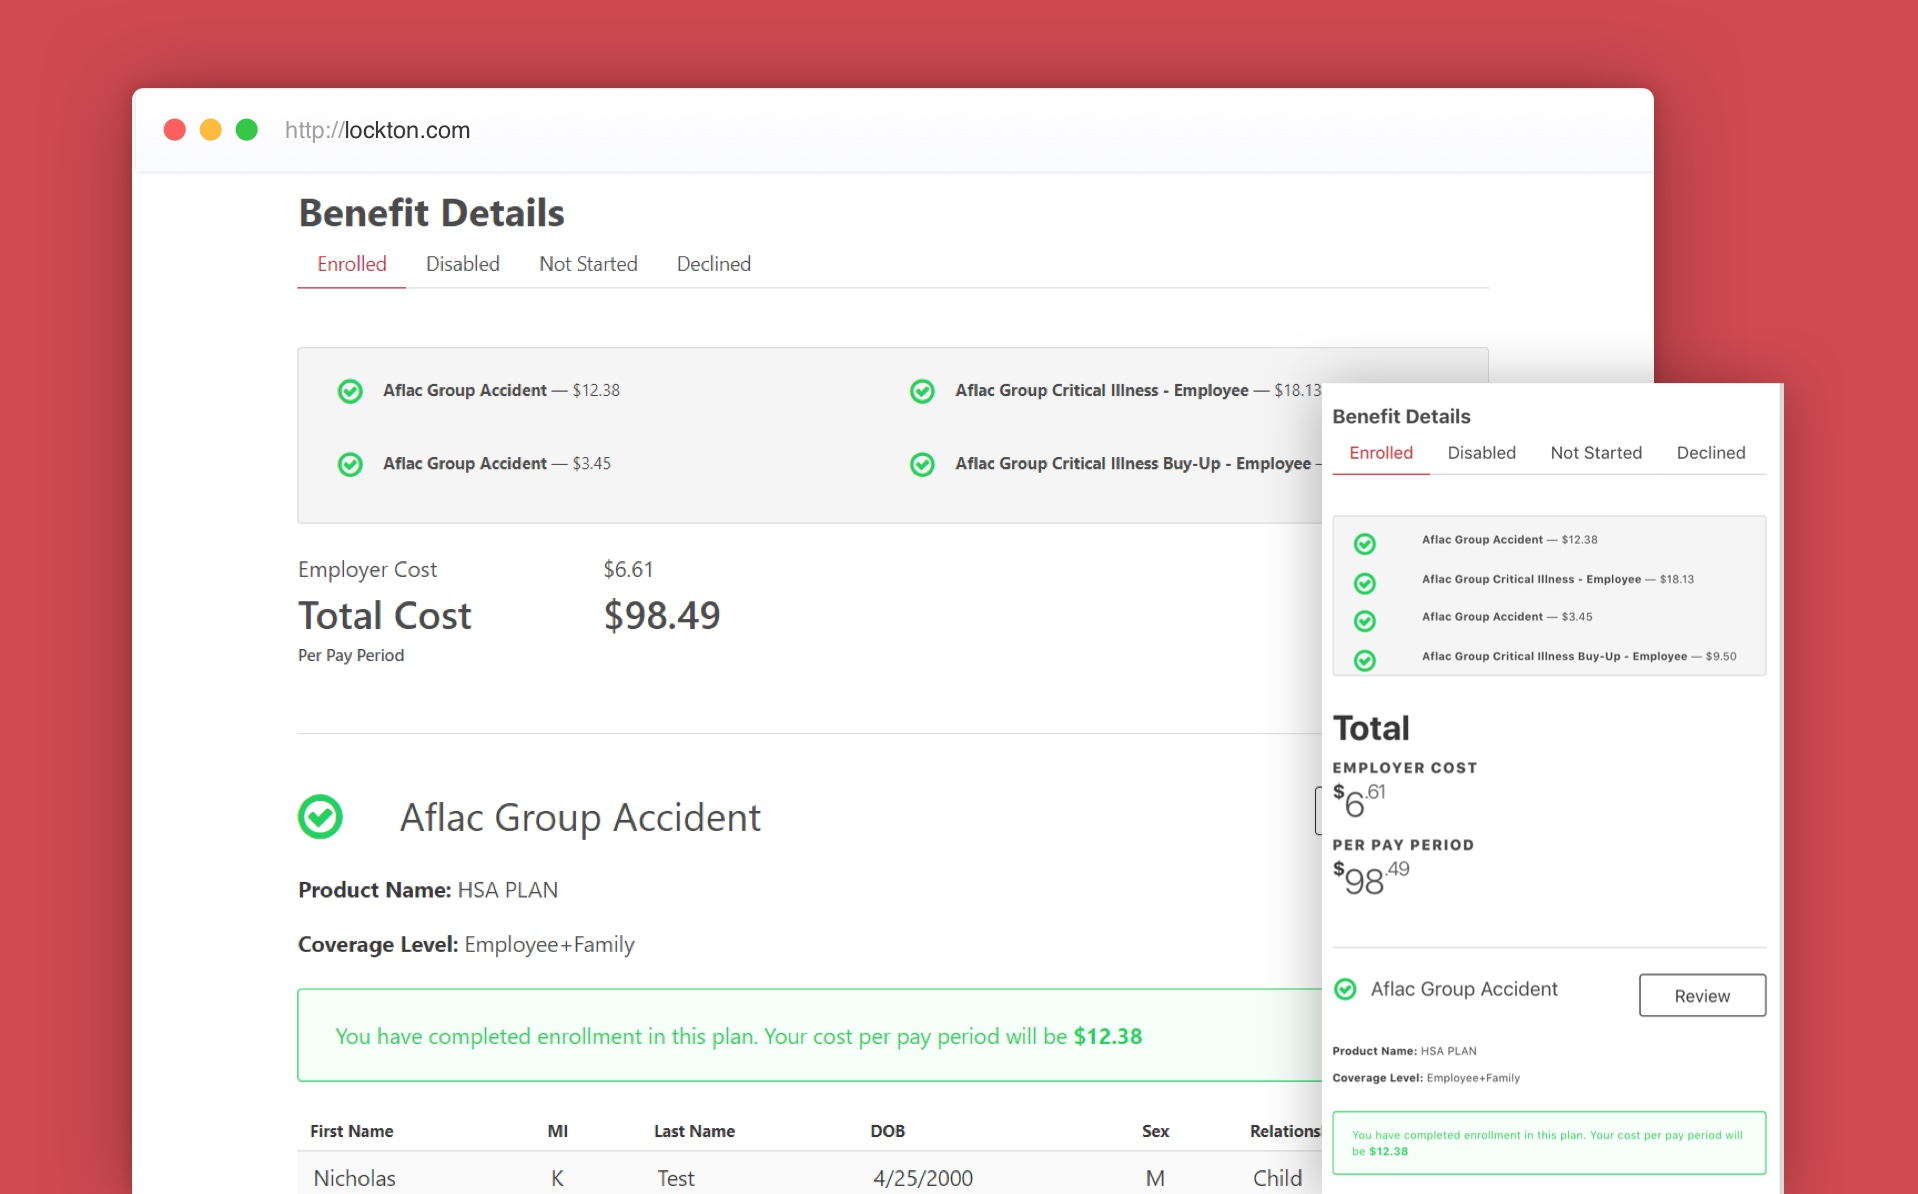
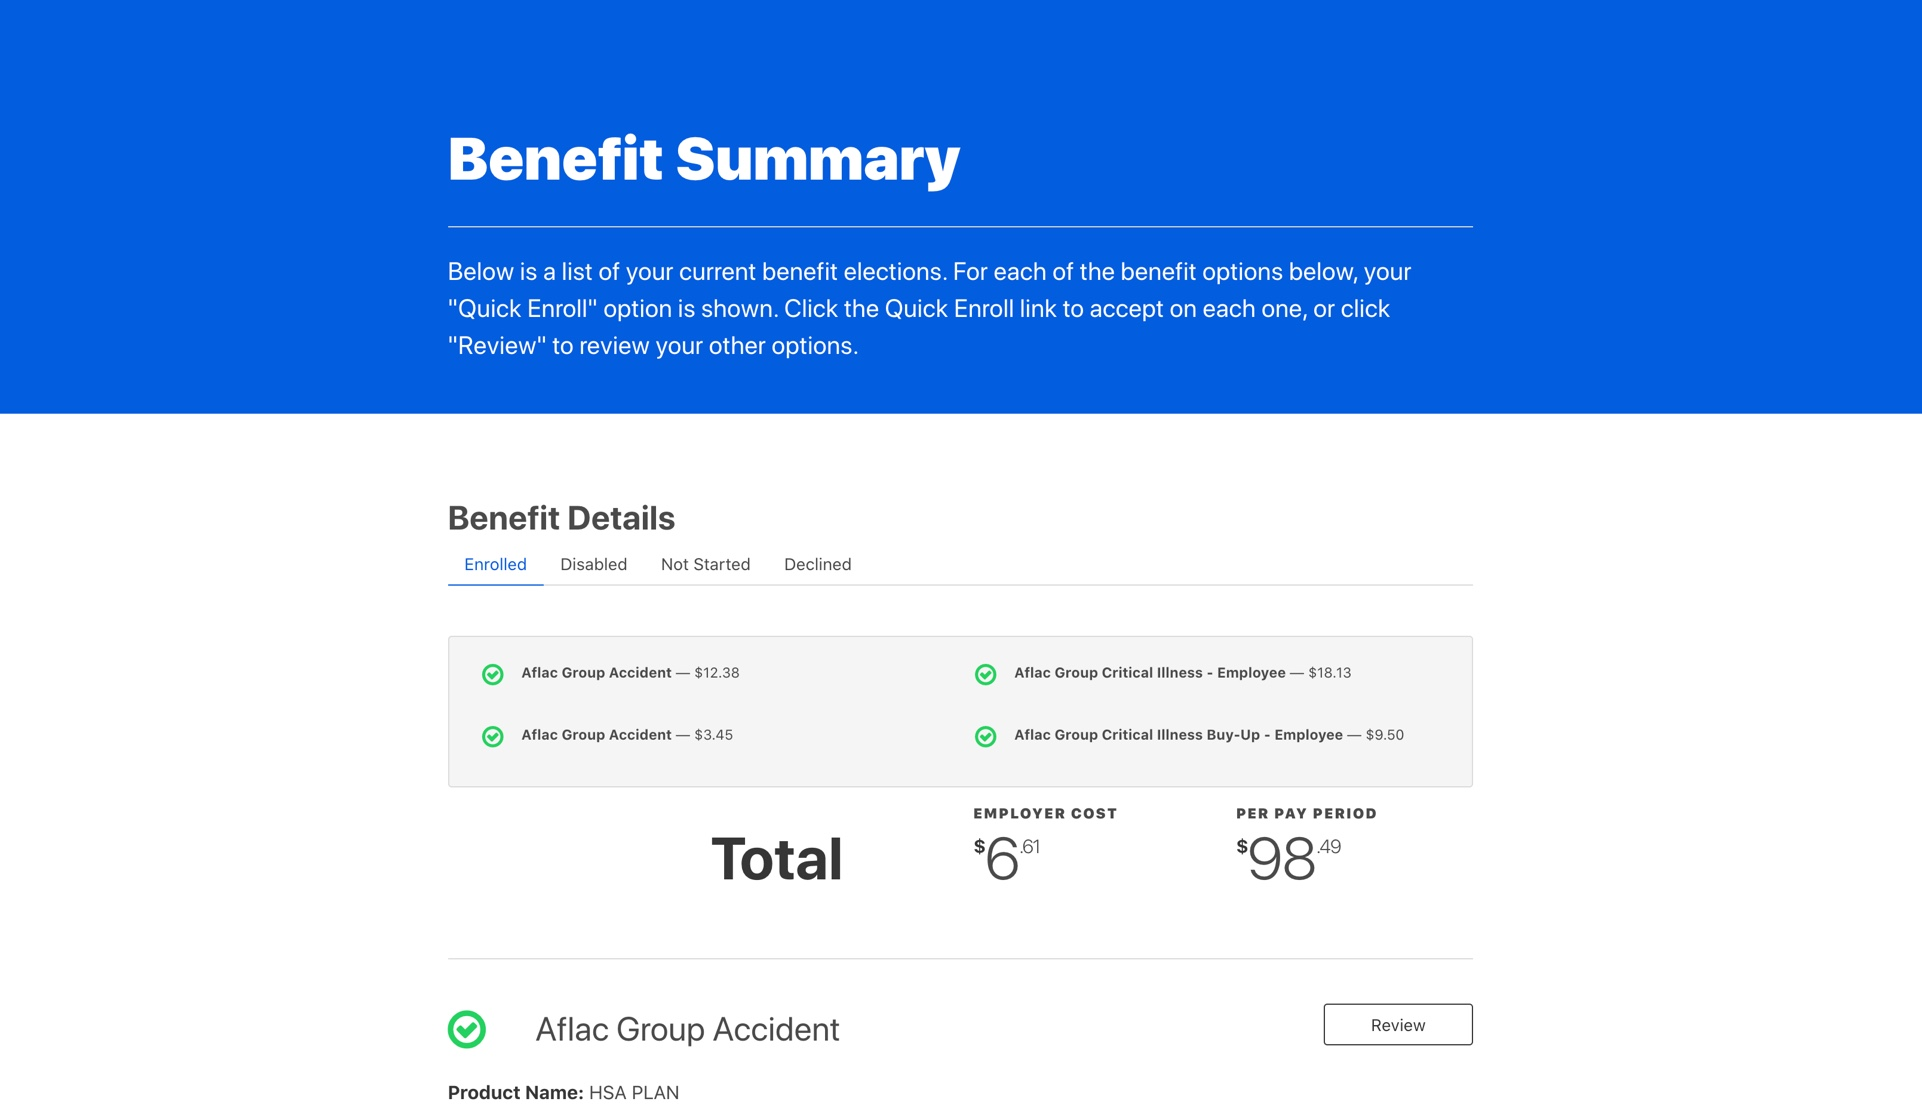
updates lockton brand from red to blue

diff --git a/lockton.html b/lockton.html
@@ -44,7 +44,7 @@
             style="
               width: 45px;
               height: 6px;
-              background-color: #BE2A32;
+              background-color: #005EDF;
               display: block;
             "
           ></span>
@@ -128,22 +128,7 @@
       </div>
       <div class="row">
         <div class="col mb-4">
-          <img class="w-100 case-study-img-border" src="img/lockton-updated-design-1.jpg" />
-          <div class="case-study-img-note">
-              <p class="case-study-text m-0 text-center">
-                  <small><em>The updated welcome page.</em></small>            
-              </p>
-          </div>    
-        </div>
-      </div>
-      <div class="row">
-        <div class="col mb-4">
-          <img class="w-100 case-study-img" src="img/lockton-updated-design-2.jpg" />
-          <div class="case-study-img-note">
-              <p class="case-study-text m-0 text-center">
-                  <small><em>A closer look at some of the UI</em></small>            
-              </p>
-          </div>  
+          <img class="w-100 case-study-img-border" src="img/lockton-benefit-details.jpg" />
         </div>
       </div>    
       <div class="row">
@@ -169,25 +154,24 @@
       </div>
       <div class="row">
         <div class="col mb-4">
-          <img class="w-100 mb-4" src="img/lockton-dependents.jpg" />
-        </div>
-      </div>
-      <div class="row">
-        <div class="col mb-4">
-          <img class="w-100 case-study-img" src="img/lockton-benefit-details.jpg" />
+          <img class="w-100 case-study-img-border" src="img/lockton-updated-design-1.jpg" />
           <div class="case-study-img-note">
               <p class="case-study-text m-0 text-center">
-                  <small><em>A quick peek at some of the responsive design.</em></small>            
+                  <small><em>The updated welcome page.</em></small>            
               </p>
-          </div>
+          </div>    
         </div>
-      </div> 
+      </div>
       <div class="row">
         <div class="col mb-4">
           <img class="w-100 mb-4" src="img/lockton-sign-and-submit.jpg" />
         </div>
-      </div>        
-      </div>
+      </div>   
+      <div class="row">
+        <div class="col mb-4">
+          <img class="w-100 mb-4 case-study-img-border" src="img/lockton-updated-design-2.jpg" />
+        </div>
+      </div>   
       <div class="row mb-5 mt-5">
         <div class="col">
           <a href="./index" class="text-center">
